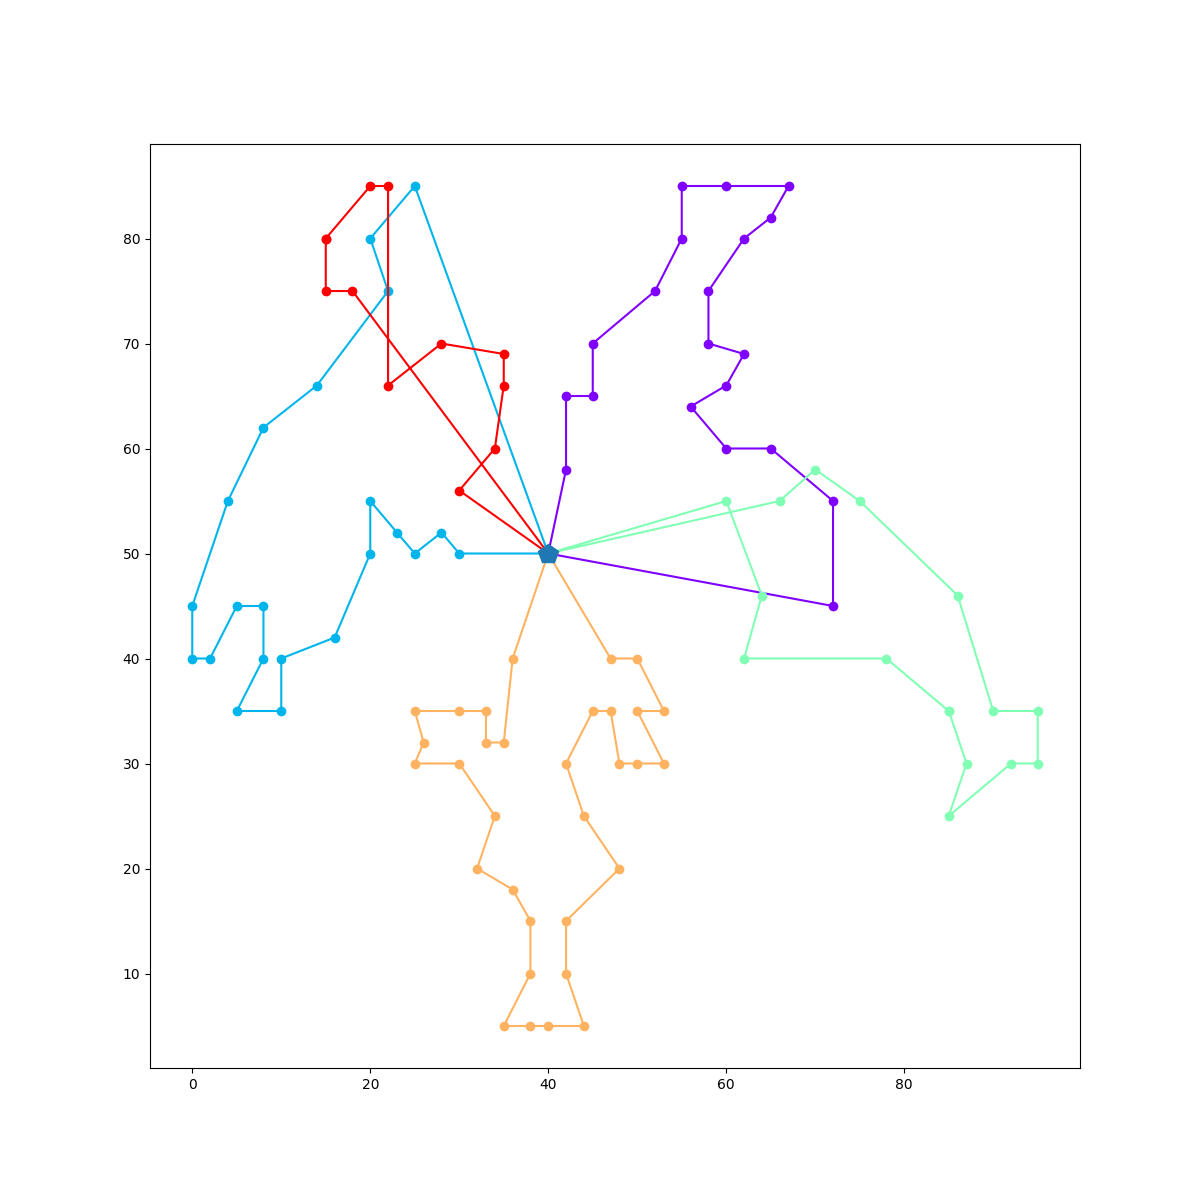
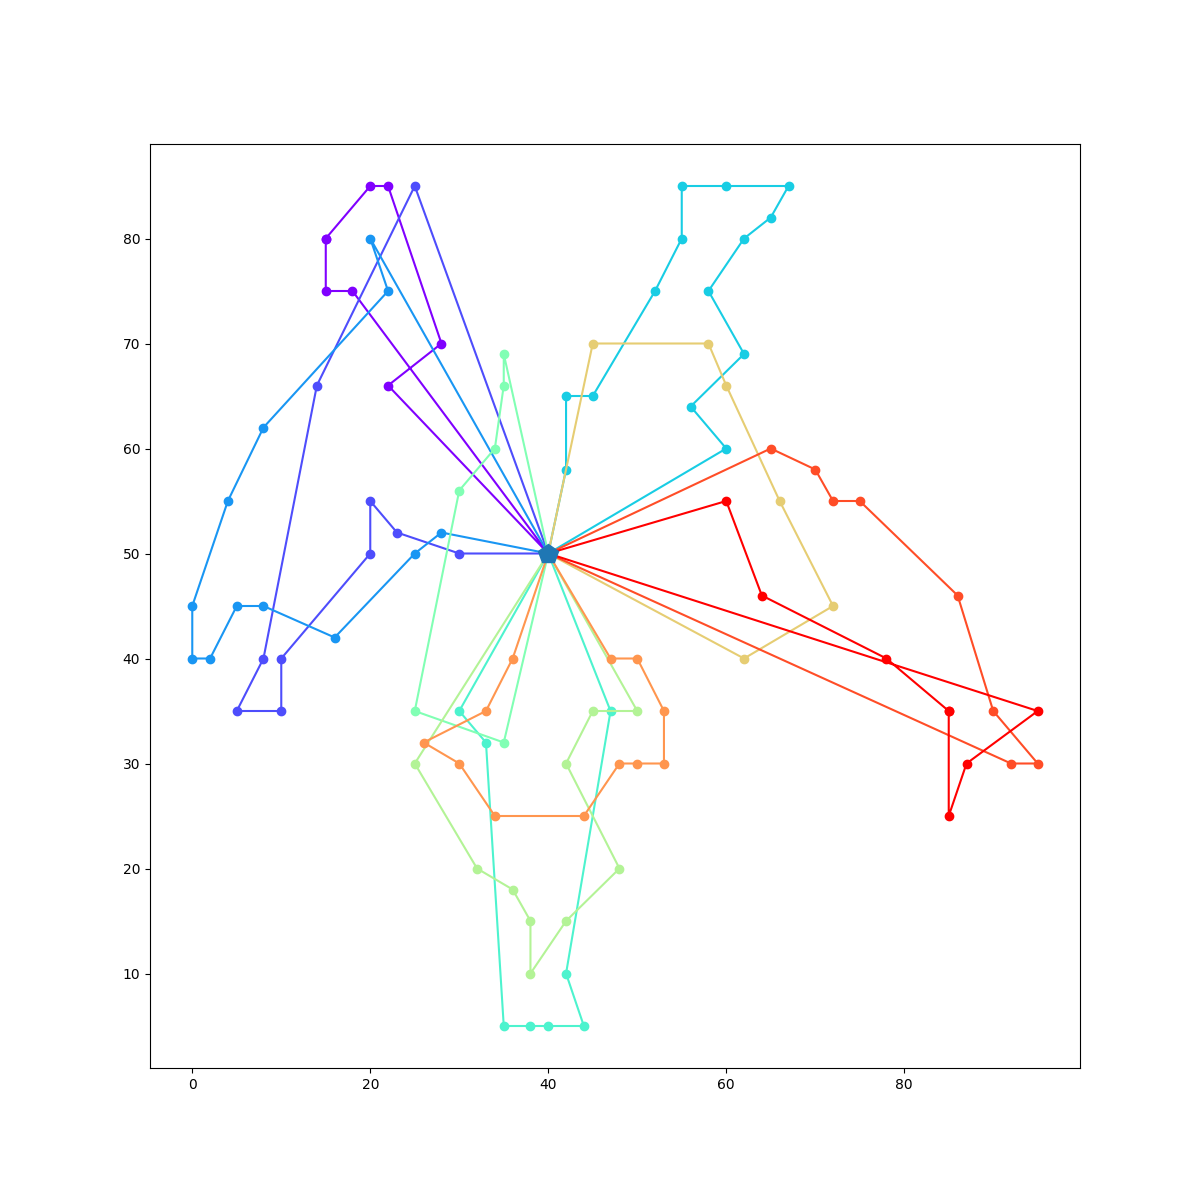
Change the place of two opt

diff --git a/ALNS.py b/ALNS.py
@@ -149,10 +149,10 @@ class ALNS:
   
         state = "Rejected"
         #if we found a global best solution, we always accept
-        if Parameters.maketwoOpt:
-            self.currentSolution.ApplyTwoOpt()
-        if self.tempSolution.distance<self.bestDistance:
 
+        if self.tempSolution.distance<self.bestDistance:
+            if Parameters.maketwoOpt:
+                self.currentSolution.ApplyTwoOpt()
             self.bestDistance = self.tempSolution.distance
             self.bestSolution = self.tempSolution.copy()
             self.currentSolution = self.tempSolution.copy()

diff --git a/experiment_loc_cal.py b/experiment_loc_cal.py
@@ -21,7 +21,7 @@ for inst in instance_files:
         testI = os.path.join(instance_dir, inst)
         problem = Problem.PDPTW.readInstance(testI)
         print(problem)
-        nDestroyOps = 3
+        nDestroyOps = 4
         nRepairOps = 3
         alns = ALNS(problem,nDestroyOps,nRepairOps)
         alns.execute()

diff --git a/experiment_two_opt.py b/experiment_two_opt.py
@@ -36,8 +36,8 @@ for instance_file in instance_files:
             'best_distance': alns.bestSolution.distance
         })
 
-# --- Save Results to CSV ---
-print("\n--- Experiment Complete! ---")
+
+
 df = pd.DataFrame(final_results)
 df.to_csv(output_csv_file, index=False)
 print(f"Results saved to {output_csv_file}")
